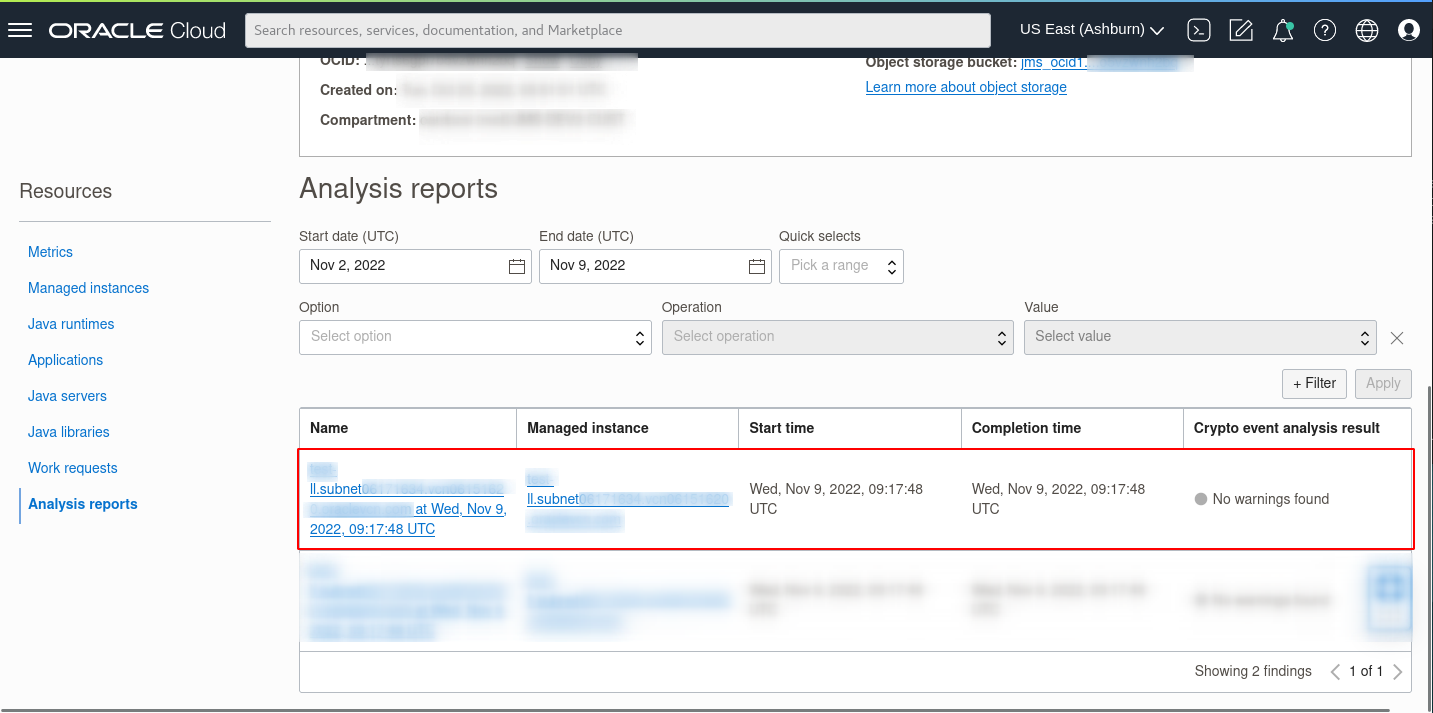
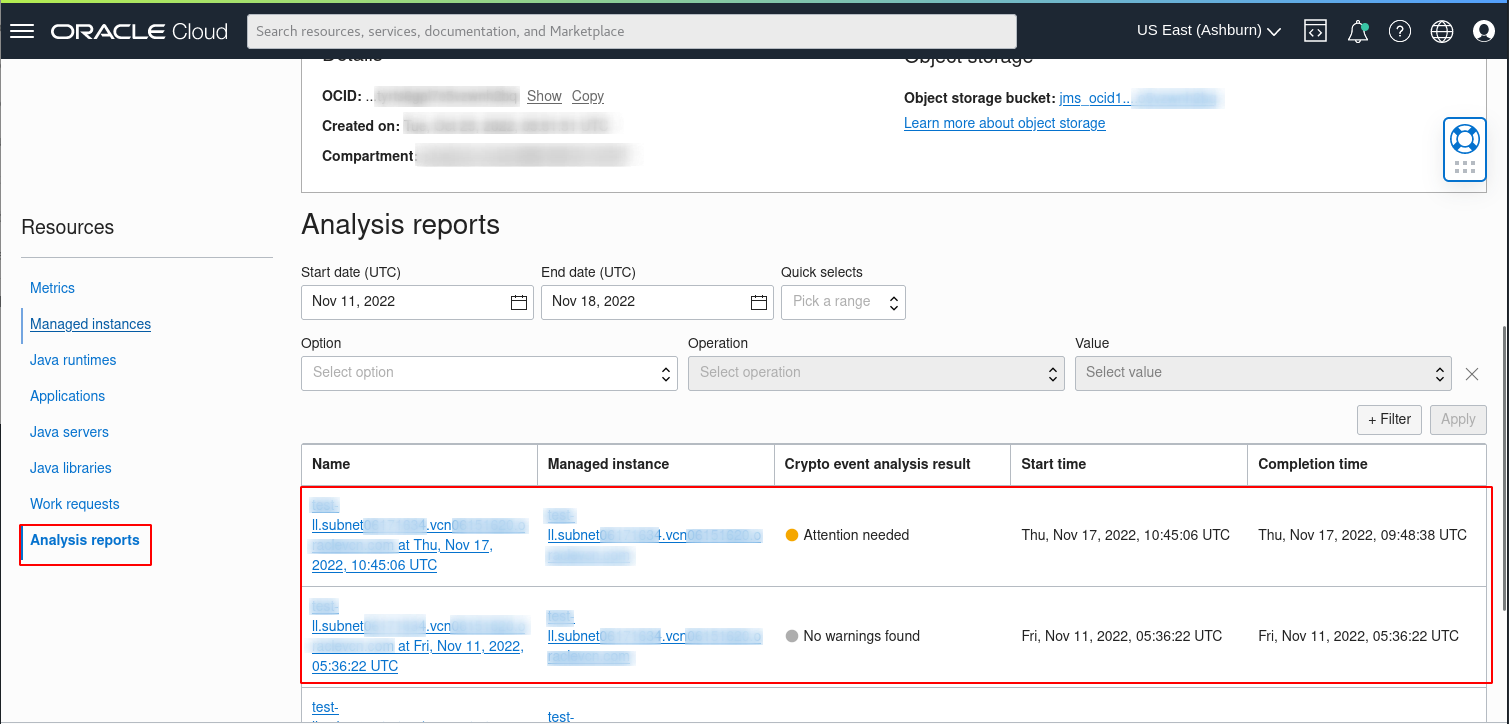
Updated screenshots for JFR and Crypto
- Added crypto result (attention required) screenshot
- Added crypto result details screenshot
- Added JFR download screenshot
- Updated documentation for crypto to reflect minimum run time
- Updated crypto run duration screenshot
- Updated documentation for jfr run dutation

diff --git a/java-management-lifecycle-management/run-crypto-event-analysis/run-crypto-event-analysis.md b/java-management-lifecycle-management/run-crypto-event-analysis/run-crypto-event-analysis.md
@@ -4,7 +4,7 @@
 
 This lab walks you through the steps to run a Crypto Event Analysis on your Fleet.
 
-Estimated Time: 1 hour
+Estimated Time: 20 mins
 
 ### Objectives
 
@@ -32,7 +32,7 @@ In this lab, you will:
   
     ![image of fleet details page with crypto event analysis button](images/fleet-crypto-button.png)
 
-3. Under the **Recording duration in hours**, set the recording duration to 1 hour. Click the **Start** button.
+3. Under the **Recording duration in hours**, set the recording duration to 5 minutes. Click the **Start** button.
   
     ![image of crypto event run settings](images/crypto-run-duration.png)
 
@@ -44,19 +44,24 @@ In this lab, you will:
   
     ![image of work request](images/crypto-work-request-started.png)
 
-    >**Note:** If you have set the **Recording duration in hours** to 1 hours It will take approximately 1.5 hours for the request to be completed.
-
 5. Wait for the work request to be processed. If the work request has been completed successfully, the status will change to **Completed without Errors**.
   
     ![image of work request completed](images/crypto-work-request-completed.png)
 
-    >**Note:** It will take approximately 1 hour for the request to be completed.
+    >**Note:** It will take approximately 15 minutes for the request to be completed.
 
 6. Once the work request status shows **Completed without Errors**, scroll down to the **Resource** menu and select **Analysis reports**. 
 
     You should see a list of Crypto analysis reports that have been conducted in your Fleet. The latest **Crypto event analysis** that has been completed should be displayed at the top of the list.
+
+    If there are no issues found, the **Crypto event analysis** result should say **No warnings found**, otherwise it'll show **Attention needed**.
   
     ![image of crypto event analysis report](images/crypto-result-final.png)
+
+7. You can click on the **Name** of the **Analysis report** and scroll down to get more details about the issue.
+
+    ![image of crypto event analysis report](images/crypto-result-final-details.png)
+
 
 
 ## Task 2: **(Optional)** Download Crypto Event Analysis Report

diff --git a/java-management-lifecycle-management/run-java-flight-recorder-jfr/run-java-flight-recorder-jfr.md b/java-management-lifecycle-management/run-java-flight-recorder-jfr/run-java-flight-recorder-jfr.md
@@ -4,7 +4,7 @@
 
 This lab walks you through the steps to run Java Flight Recorder (JFR) on any java app on your Fleet.
 
-Estimated Time: 15 mins
+Estimated Time: 20 mins
 
 ### Objectives
 
@@ -61,15 +61,15 @@ In this lab, you will:
   
     ![image of work request completed](images/jfr-work-request-completed.png)
 
-    >**Note:** It will take approximately 10 minutes for the request to be completed.
+    >**Note:** It will take approximately 15 minutes for the request to be completed.
 
 8. To access the report, navigate to the **Fleet** details page and click on the **Object storage bucket** name under **Object storage**.
 
     ![image of crypto event run settings](images/fleet-bucket-link.png)
 
-9. Your **Java Flight Recorder** recording's raw copy is stored in the folder [PENDING CONTENT]
+9. The raw copy of the **Java Flight Recorder** report is stored in the file: **JMS** > **JFR** > **fleet-ocid** > **instance-ocid** > **application-name.jfr**
 
-    ![image of crypto event analysis bucket object](images/broken.png)
+    ![image of crypto event analysis bucket object](images/jfr-recording-download.png)
 
 
 10. You can open the **Java Flight Recorder** recording in your favorite JFR viewer or you can use the Oracle's **JDK Mission Control** to view th files. 
